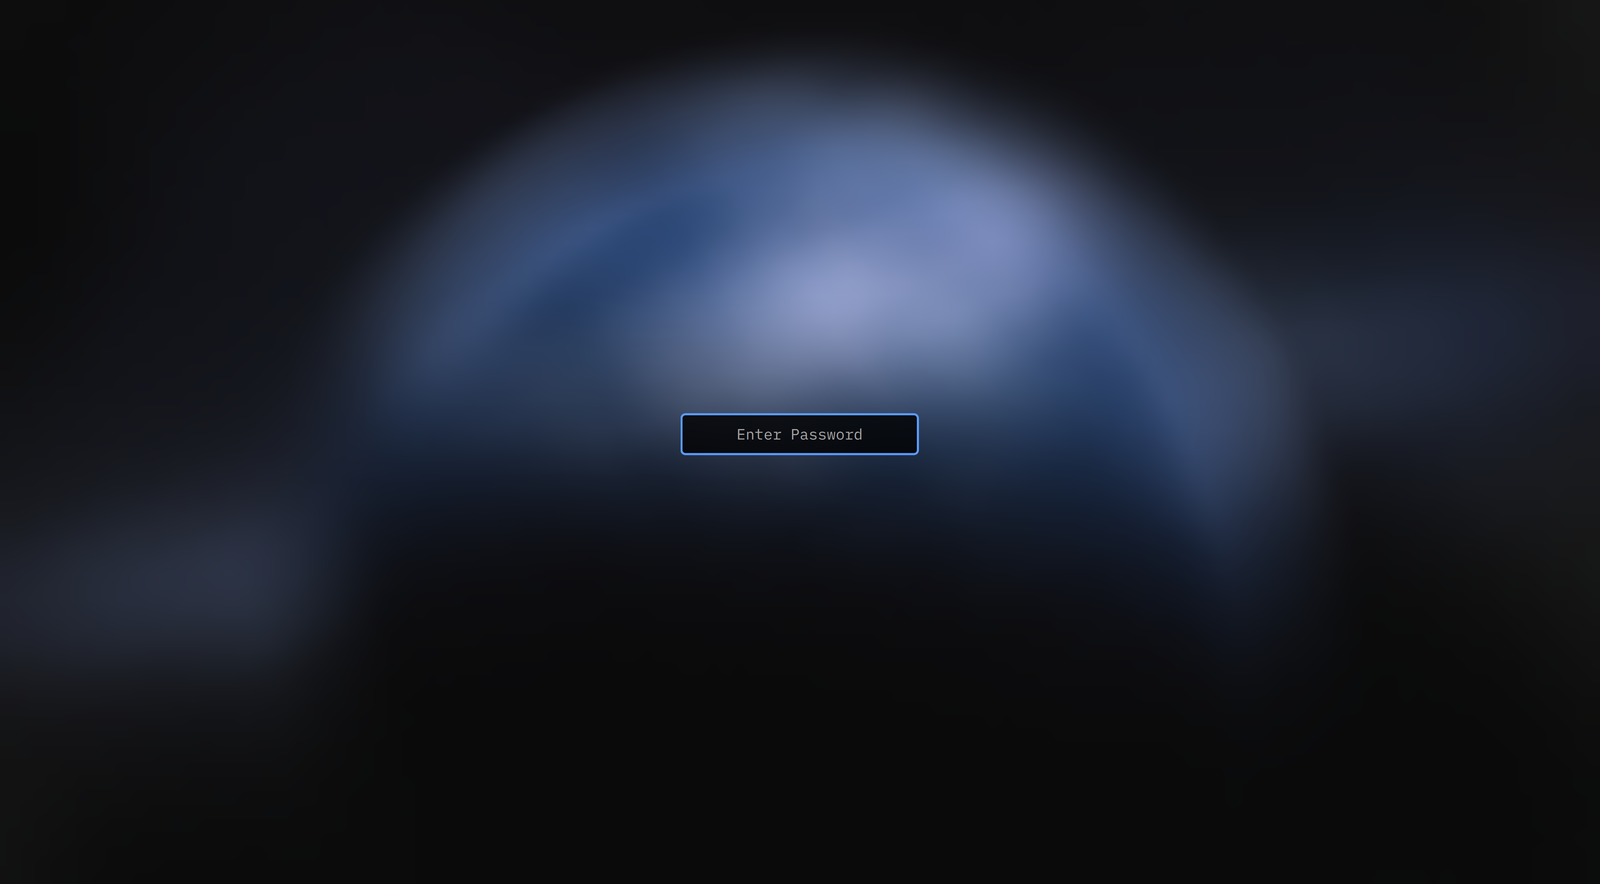
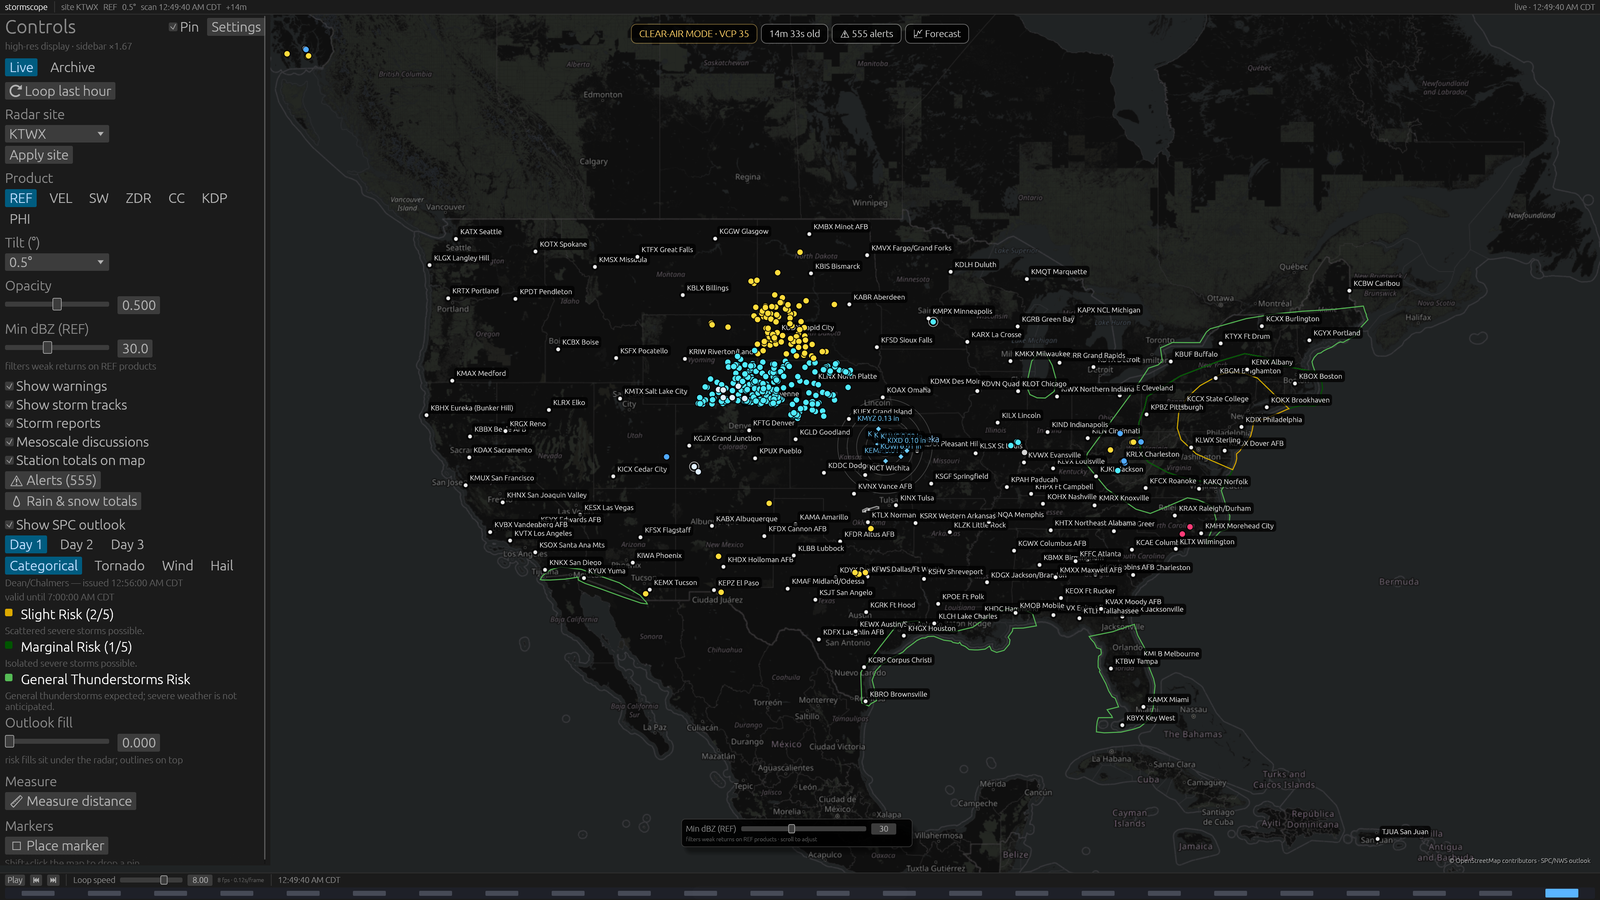
Replace the README screenshot with a real one, and soften clippy CI
The screenshot slot had accidentally captured the *lock screen* (the
session had auto-locked — the compositor's own Super+Shift+L / Escape binds
and `omarchy-sleep-lock` before suspend, per the bind table — by the time
grim ran). Replaced with a real capture of the running app: the full-US
view showing station totals tagging their strongest numbers, storm-report
dots, SPC outlook outlines, the alerts badge and the controls sidebar.

Clippy: drop `-D warnings` from the informational job. With it, every run
painted a red job (the first of ~100 pre-existing style lints turns into an
error), which reads as a broken CI even though nothing gates on it; without
it, the same lints show up as annotated warnings and the job is honest
about being informational. The file notes how to make it gating once the
backlog is cleaned.

diff --git a/README.md b/README.md
@@ -17,7 +17,7 @@ Screenshot regeneration: focus stormscope, then
     grim -g "$(hyprctl -j clients | jq -r '.[] | select(.class=="stormscope") | "\(.at[0]),\(.at[1]) \(.size[0])x\(.size[1])"')" /tmp/shot.png
     magick /tmp/shot.png -resize 1600x docs/screenshot.png
 -->
-![stormscope: NEXRAD reflectivity with warning polygons, the alerts badge and station totals](docs/screenshot.png)
+![stormscope: the full-US view with station totals on the map, storm reports, SPC outlook outlines and the alerts badge](docs/screenshot.png)
 
 ## Features
 
